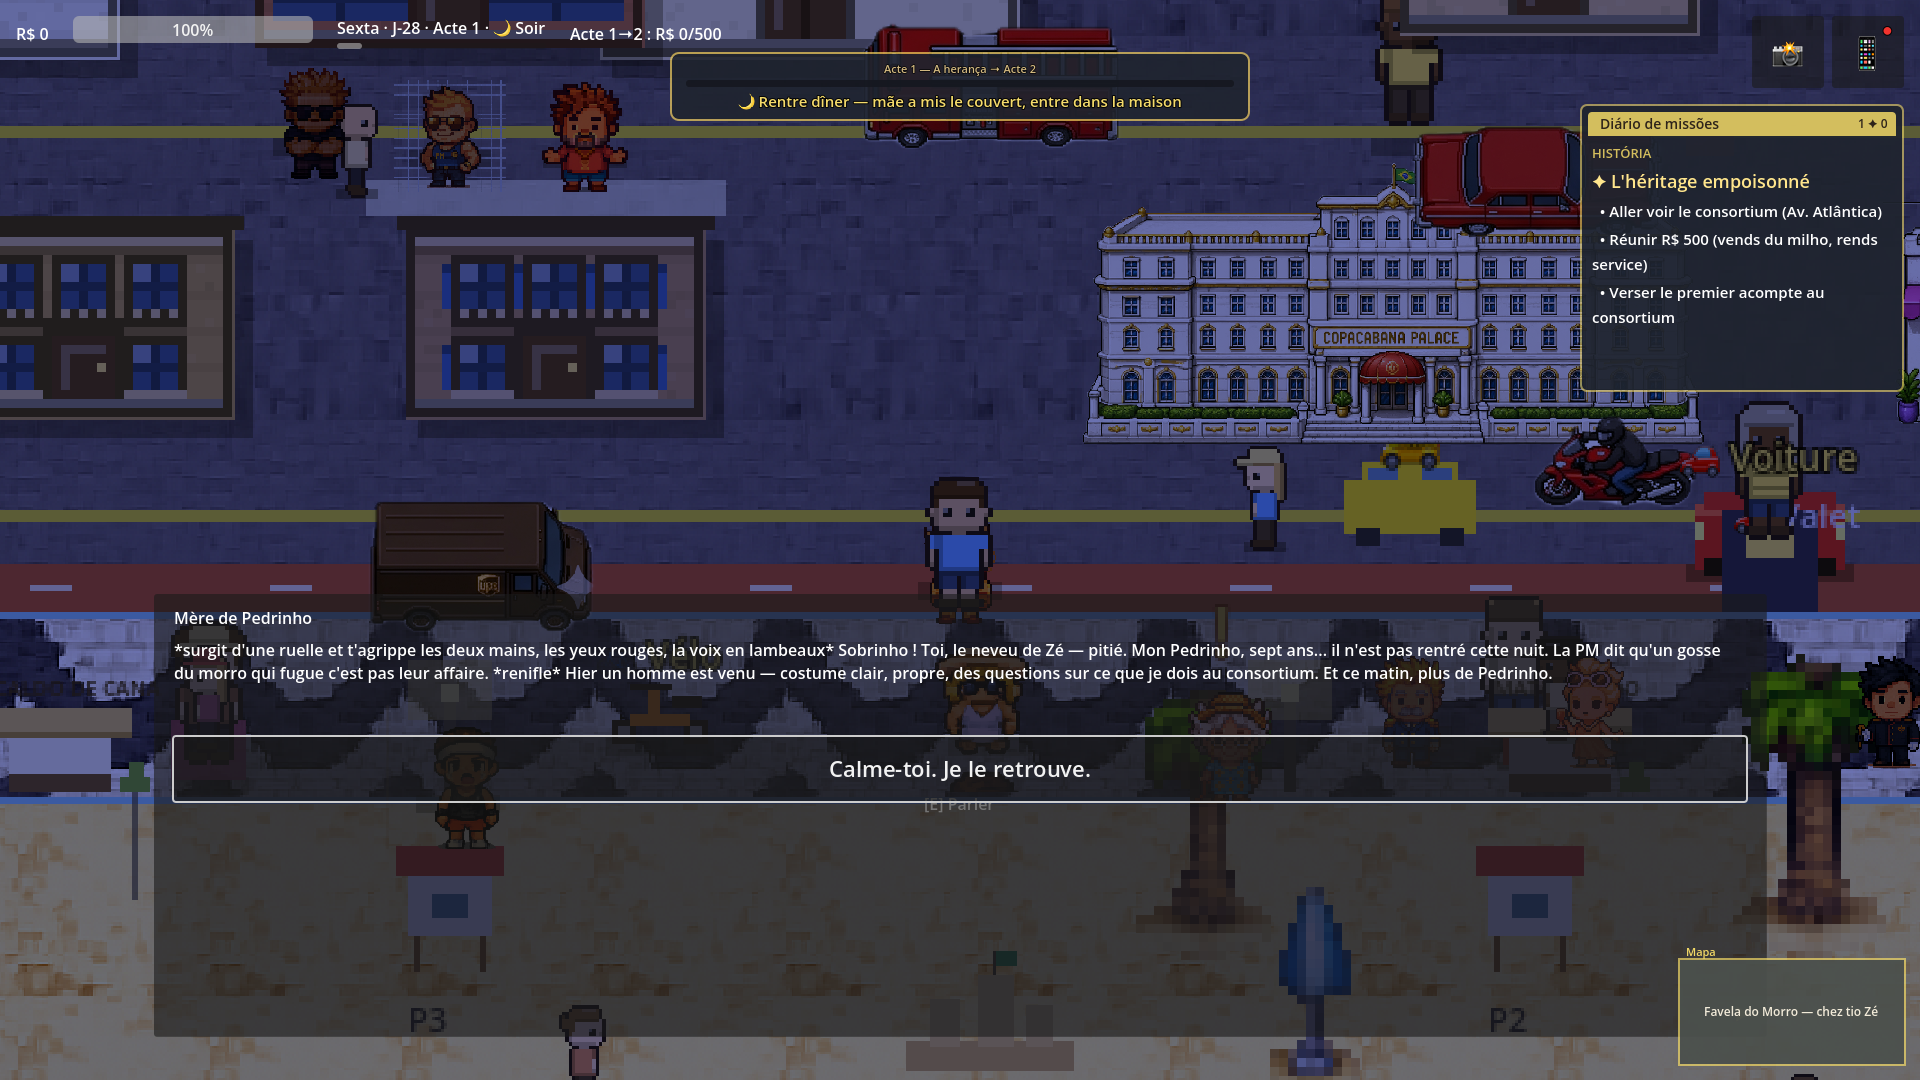
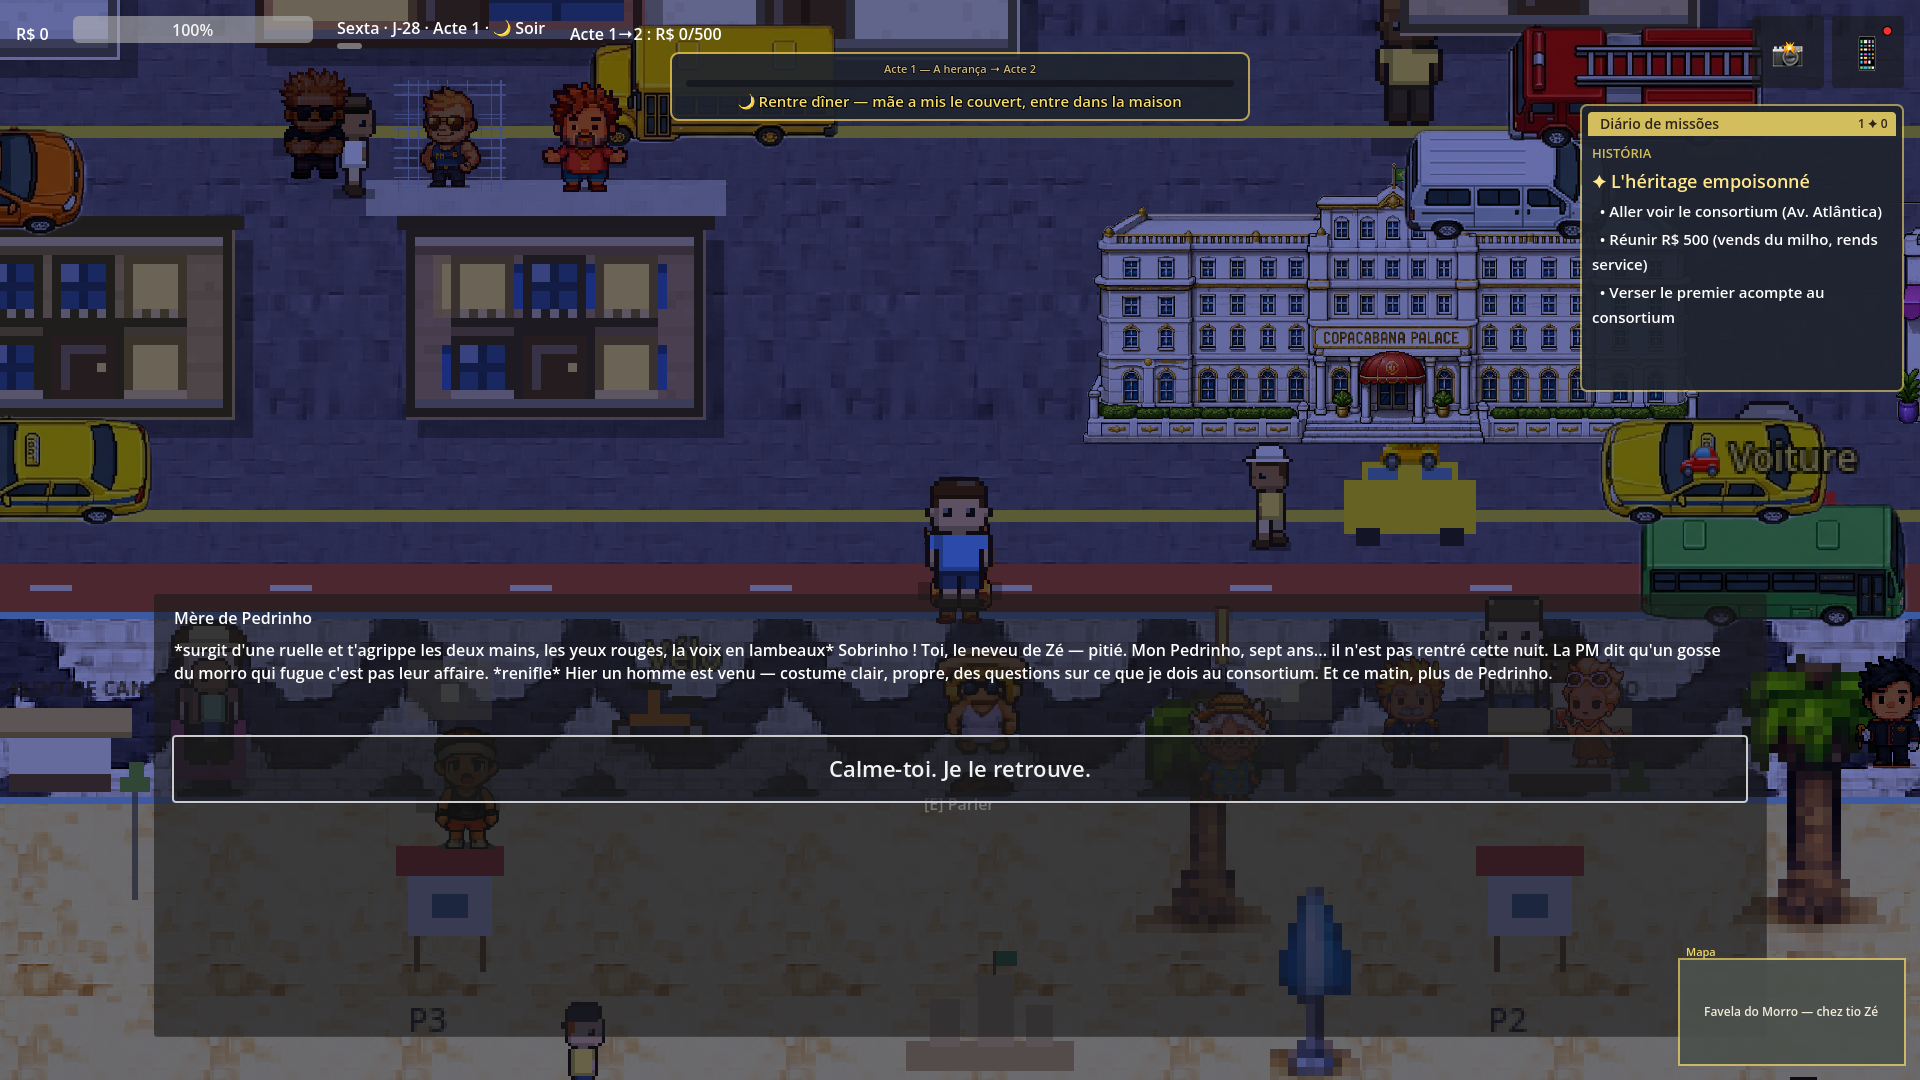
Rendu B + D : sols peints du morro et des esplanades, nuit avec fenêtres allumées et halos émissifs
B — GroundPainter branché dans DistrictDresser : pavés irréguliers pour
ground_plaza, terre à cailloux et touffes pour ground_dirt, marches
nez/giron/contremarche pour le nouveau groupe ground_stairs (les deux
escaliers du morro sont tagués) ; tuiles générées dans la couleur de la dalle
à la densité GBA (16 natifs = 48 px monde).
D — FacadePainter.build_night (vitres allumées, une sur trois éteinte, halo
d'un pixel) posé en Sprite2D FacadeNight (groupe nightlight) par
BuildingDressing ; DayLighting applique à tout nœud nightlight un matériau
émissif (ignore la couleur de vertex, donc le CanvasModulate) et remplace les
halos en rect des lampadaires par un dégradé radial. Refs visuelles et docs.

diff --git a/docs/BACKLOG.md b/docs/BACKLOG.md
@@ -33,7 +33,7 @@ Voir `.claude/skills/ame-carioca` pour les principes. Mise à jour via le skill 
 
 - [x] **Dé-cloner les 4 voies : un verbe par voie** — Tráfico : A2/A4 déclenchent des poursuites PM à semer (rattrapé = amende, relance au spot) ; Polícia : B2/B5 sont des filatures StakeoutZone (bande 70-240 px, suspect qui déambule) ; Consórcio : C3/C8 sont des négociations à tell lisible (mauvaise approche = caution 200-250 R$ perdue, rejouable) ; Prefeito : D5 est un mutirão (3 personnes à convaincre, chacune son levier). Pourquoi : « la même mission jouée 9 fois, reskinnée 4 fois » — critique du 2026-07-15. (ajouté 2026-07-15, livré 2026-07-16) — Extension au milieu de chaîne livrée le 2026-07-21 : B4 = filature du dealer avant le coffrage, C5 = négociation à tell avec l'attachée du MAC, D3 = médiation à témoins chaînés (Cléo nomme le levier de Neném), D4 = vraie escorte physique de la procession (EscortFollower, 884→-240 dans Ipanema). Beats mécaniques MAIN : 9 → 15. — Deuxième tranche livrée le 2026-07-21 (les 9 restantes) : les 4 tioze jouent le même beat « quelqu'un d'autre surveille le concierge » chacun dans son verbe (A7 semer l'ombre de la Baía — FUITE ; B6 repérer le guetteur du perron — planque ; C6 la fiche d'Ataíde au bon levier — ni argent ni ordre ; D7 la médaille d'Expedito en écoutant vraiment) ; A5 = les cris alertent une patrouille à semer ; A6 = la traversée SUP des Cagarras devient le mini-jeu `cagarras_sup` (dont le lanceur `SupRental.tscn` n'était instancié nulle part — mini-jeu mort, désormais branché sur la plage de ZonaSul) ; B3 = la patrouille marche derrière toi jusqu'au garage aux volets verts (EscortFollower) ; C7 = négociation à tell avec le président de la Península (il lui faut une histoire, pas un chèque) ; D6 = le discours d'inauguration au MAC à la bonne prise. **Beats mécaniques MAIN : 24/45 (~53 %) — objectif ~50 % atteint, les 4 voies jouent leur verbe sur toute la chaîne.**
 - [x] **Gabarit « enquête Pedrinho » pour les jalons de voie** — livré sur les TROIS beats. Arrivée : interception « le donneur vient à toi » (DialogueTriggerZone). Pivot tio Zé : enquête à 2 témoins chaînés + concierge « retenu » tant qu'on ne porte pas une lembrança de Zé (photo de colônia, chope gravée, fiche au faux nom, médaille de bloco — zéro argent). Gros coup : préparation + rétention + climax au verbe de la voie — A8 filière Mafia da Baía puis flagrante à semer sur les quais, B8 briefing PM puis la planque la plus dure du jeu (28 s dans la foule du Maracanã), D8 le Padre convaincu qui marche physiquement en cortège derrière toi jusqu'à la tribune (EscortFollower), C8 déjà en négociation. Pourquoi : le pivot émotionnel était livré comme une course de routine. (ajouté 2026-07-15, livré 2026-07-17)
-- [ ] **Rendu visuel — étude des possibilités** — `docs/VISUEL_ETUDE_2026-10-08.md` : captures du jeu complet (outil `tools/ScreenshotMain.tscn`), trois langages graphiques qui cohabitent (façades peintes / personnages GBA / aplats partout ailleurs). Pistes classées : A façades en pixel-art modulaire (peintre procédural ou atlas), B sols et ombres hors Copa, C décor qui bouge (mer, palmiers, stores), D nuit et lumières, E échelle et tri en Y, F hygiène pixel (échelle entière), G interface repliée et cadres cohérents, H intérieurs, I captures de référence. Séquence recommandée F+I → A+B → D+C → G → H. Pourquoi : « Copacabana est OK, le reste est décevant » tient aux aplats, pas au contenu ; dès qu'on quitte les 4 façades peintes, le jeu redevient un prototype à rectangles. (ajouté 2026-10-08) — **F, I et A livrés le 2026-10-08** : props à la densité GBA (`PropSprites.resampled`), captures de référence (`tools/visual_refs.sh`) + `docs/STYLE_VISUEL.md`, et `FacadePainter` (peintre procédural, styles copa/favela/igreja) branché sur toutes les façades en rects (Copa, 6 repères, morro, 12 districts). Restent B, C, D, E, G, H.
+- [ ] **Rendu visuel — étude des possibilités** — `docs/VISUEL_ETUDE_2026-10-08.md` : captures du jeu complet (outil `tools/ScreenshotMain.tscn`), trois langages graphiques qui cohabitent (façades peintes / personnages GBA / aplats partout ailleurs). Pistes classées : A façades en pixel-art modulaire (peintre procédural ou atlas), B sols et ombres hors Copa, C décor qui bouge (mer, palmiers, stores), D nuit et lumières, E échelle et tri en Y, F hygiène pixel (échelle entière), G interface repliée et cadres cohérents, H intérieurs, I captures de référence. Séquence recommandée F+I → A+B → D+C → G → H. Pourquoi : « Copacabana est OK, le reste est décevant » tient aux aplats, pas au contenu ; dès qu'on quitte les 4 façades peintes, le jeu redevient un prototype à rectangles. (ajouté 2026-10-08) — **F, I et A livrés le 2026-10-08** : props à la densité GBA (`PropSprites.resampled`), captures de référence (`tools/visual_refs.sh`) + `docs/STYLE_VISUEL.md`, et `FacadePainter` (peintre procédural, styles copa/favela/igreja) branché sur toutes les façades en rects (Copa, 6 repères, morro, 12 districts). B et D livrés le 2026-10-08 : `GroundPainter` (pavés, terre, escaliers — groupe `ground_stairs`) dans `DistrictDresser`, fenêtres allumées (`FacadePainter.build_night`) et matériau émissif + halos radiaux dans `DayLighting`. Restent C (décor qui bouge), E (échelle, tri en Y), G (interface), H (intérieurs).
 - [ ] **Playtest grandeur nature (bot-joueur) — 10 constats** — `docs/PLAYTEST_2026-10-07.md` : un bot qui joue le vrai jeu sans téléport ni connaissance du code (`tools/playtest/run_playtest.sh`) a mesuré 7 runs. À traiter par impact : F1 missions dynamiques farmables sur place (650 R$ en 40 s, le même template re-tiré) ; F2 guidage du prologue mort (`act1_started` posé avant Pedrinho) ; F3 « Rentre dîner » sans dîner + ping-pong favela/Copa chaque soir ; F4 taxi du téléphone qui contourne le verrou du morro ; F5 milho acte 1 = 15-45 R$ une fois pour toutes (3 clients, `has_purchased` jamais remis) ; F6 charrette portée collée au joueur après la bascule d'acte ; F7 spots de voies futures parlables dans le prologue ; F8 83 s de narrateur avant le premier pas ; F9 nouvelle partie = NG+ dès qu'un `ng_plus.json` existe ; F10 couture Arpoador qui annule les poursuites, guidage « → Pão de Açúcar » sans transport. Pourquoi : les tests e2e téléportent et ne voient ni le rythme ni les contradictions de guidage. (ajouté 2026-10-07) — F2, F3, F6 livrés le 2026-10-08 : le prologue prime sur la logique d'acte (ancres `spot:` sur les 4 témoins, prologue bouclé à 6 min au lieu de 10 min 30 au run 8), le jantar devient un beat quotidien chez mãe (variante `phase: 2` + flag-jour `jantar_day`, le rappel du soir s'éteint une fois servi et pointe la porte de la maison dans la favela), la charrette portée est déposée à la bascule d'acte. F1 livré le 2026-10-08 : un job ne se re-tire pas aussitôt (titre du dernier joué/expiré exclu du tirage) et la paie suit la distance réelle depuis le point d'acceptation (pleine paie à 700 px, 30 % sous les pieds, inter-districts = pleine). F4, F5, F7 livrés le 2026-10-08 : le taxi (téléphone et borne) respecte le verrou du prologue (`DistrictManager.travel_lock_reason`), les 3 clients du milho se ré-arment à chaque prise de la carrocinha et à chaque phase, les 7 spots de voie du morro et les 4 spots « contact » de Copa attendent l'acte 2 (`ReactiveDialogueSpot.required_act`). F8, F9, F10 livrés le 2026-10-08 : intro en 4 écrans et 963 caractères (le sermon des voies et le mode d'emploi longs sont partis — le jeu les redit en acte 2 et au tutoriel), NG+ seulement quand l'épilogue le demande (`GameManager.ng_plus_requested`), le cobrador apparaît sur du sol libre et n'abandonne par distance qu'après 3 s, et « → Pão de Açúcar » se guide via Botafogo puis la borne du bondinho (`_route_via_bondinho`, ancre `class:BondinhoLauncher`). Les 10 constats du playtest sont traités ; reste le spot du reinado R1 et les deux étapes B6 à ancre générique. Les runs 11-17 (2026-10-08) ont ensuite corrigé le guidage des voies : ancre d'un PNJ d'intérieur → porte du bâtiment, « continue ta voie » → donneur réel de la prochaine MAIN, ancres des missions intro et du garçom (B6), B9 → Ramos avant le morro ; résultat : voie Polícia bouclée en 95 min (acte 5, dette soldée) au run 17. À regarder : le spot du reinado R1 (« les tiens te cherchent sur le calçadão ») reste introuvable 25 min, même ancre générique.
 - [x] **Économie du milieu de partie sans grind** — verbe `debt_credit` (le patron crédite la dette sans ponctionner le cash) posé sur les beats des 4 chaînes (~2 500/voie : A 200/400/500/600/800, B/C/D équivalents) + pêcheur (300) ; rewards des missions dynamiques relevés (base 80-1300, + bonus Rapidinho) comme moteur de cash principal. Les seuils 2000/6000 se franchissent en jouant la trame. Pourquoi : le rythme cassait mécaniquement entre deux jalons — critique du 2026-07-15. (ajouté 2026-07-15, livré 2026-07-16)
 - [x] **Un acte 5 qui se joue (Reinado)** — 2 quêtes MAIN de règne par voie entre le couronnement et le desfile, dans le verbe de la voie : Tráfico = pedágio des camelôs + blitz à semer, puis carga du camarote en CHRONO ; Polícia = batedor du bloco en planque + la Sapucaí à balayer seul ; Consórcio = charte « Copacabana Riserva » (le barraqueiro à la photo) + le camarote de l'école contre l'ala des enfants ; Prefeito = monter le Bloco do Bairro (Dona Filó, Careca et sa marchinha) + l'ordre des alas (les gosses devant). Climax au Sambódromo (district squelettique désormais meublé de 4 spots), guidage acte 5 réécrit (règne d'abord, desfile en climax), toasts jalons chaînés jusqu'au desfile, et Copa reflète le règne (`_rebuild_reinado()` : faixa + habitant dont le salut dit ce que le bairro pense du pouvoir — crainte, gratitude ambiguë, uniformisation ou fierté). E2e : les 4 reinados joués jusqu'au bout dans la suite. Pourquoi : « l'acte 5 = 1 mini-jeu + un écran de texte » — diagnostic du 2026-07-21. (ajouté 2026-07-21, livré 2026-07-21)

diff --git a/docs/VISUEL_ETUDE_2026-10-08.md b/docs/VISUEL_ETUDE_2026-10-08.md
@@ -146,6 +146,21 @@ contour) pour que tout nouvel asset respecte le langage GBA.
   12 districts. Les 4 façades peintes de l'atlas (Palace, Cantinho, Quiosque,
   Rio Style) restent telles quelles — décision à prendre.
 
+- **B** : `GroundPainter` (pavés irréguliers, terre à cailloux et touffes,
+  marches nez/giron/contremarche) branché dans `DistrictDresser` pour les
+  groupes `ground_plaza`, `ground_dirt` et le nouveau `ground_stairs` (les
+  deux escaliers du morro sont tagués) ; chaque dalle garde sa couleur, la
+  tuile est générée dedans à la densité GBA. Les ombres portées existaient
+  déjà (rect à 30 %).
+- **D** : `FacadePainter.build_night` (vitres allumées une sur trois éteinte,
+  halo d'un pixel) posé par `BuildingDressing` en Sprite2D `FacadeNight`
+  (groupe `nightlight`) ; `DayLighting` applique à tout nœud `nightlight` un
+  matériau **émissif** (shader qui ignore la couleur de vertex, donc le
+  `CanvasModulate`) et remplace les halos en rect des lampadaires par un
+  dégradé radial 2,4× plus large. Le soir a désormais des lumières au lieu
+  de taches jaunes assombries. Non fait : reflets sur la mer, néons des
+  enseignes de l'atlas, ombres longues du matin.
+
 ## Séquence recommandée
 
 1. **F + I** (1 j) : pixels propres et captures de référence — on mesure

diff --git a/docs/STYLE_VISUEL.md b/docs/STYLE_VISUEL.md
@@ -22,7 +22,7 @@ est dessiné ou rééchantillonné respecte cette grille.
    « Godot » brute (ni blanc pur ni noir pur sur une surface).
 6. **Ancrage** : un prop ou un personnage est ancré par ses pieds ; un
    bâtiment par le bas de sa façade. Le tri en Y suit l'ancre.
-7. **Tailles** : porte 7×11 natifs, fenêtre 5×6, étage ≈ 11 natifs, un
+7. **Tailles** : porte 7×9 natifs, fenêtre 5×5, étage 8 natifs (rez-de-chaussée 10), un personnage fait un étage et demi. Un bâtiment de Copa = 33×21 natifs, une maison du morro = 13-40 natifs de haut. Sols peints : tuile 16×16 natifs (48 px monde), marche de 3 natifs.
    personnage fait un étage. Un bâtiment de Copa = 33×21 natifs, une maison du
    morro = 14-20 natifs de haut.
 8. **Texte dans le monde** : étiquettes en police UI avec contour, jamais
